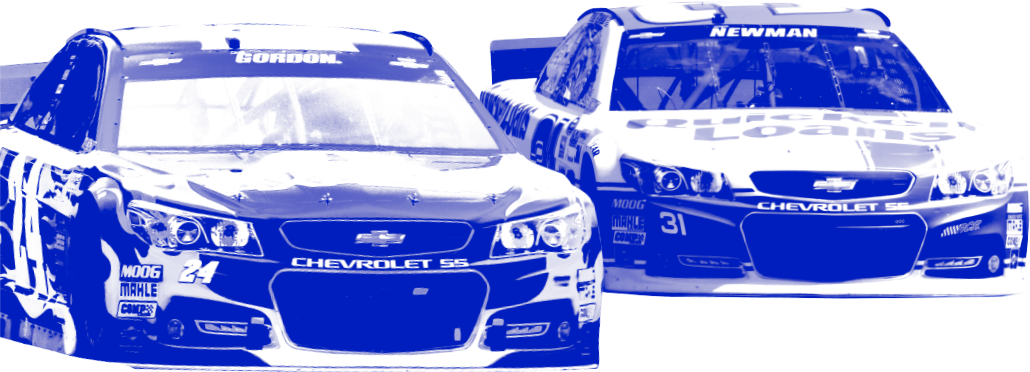
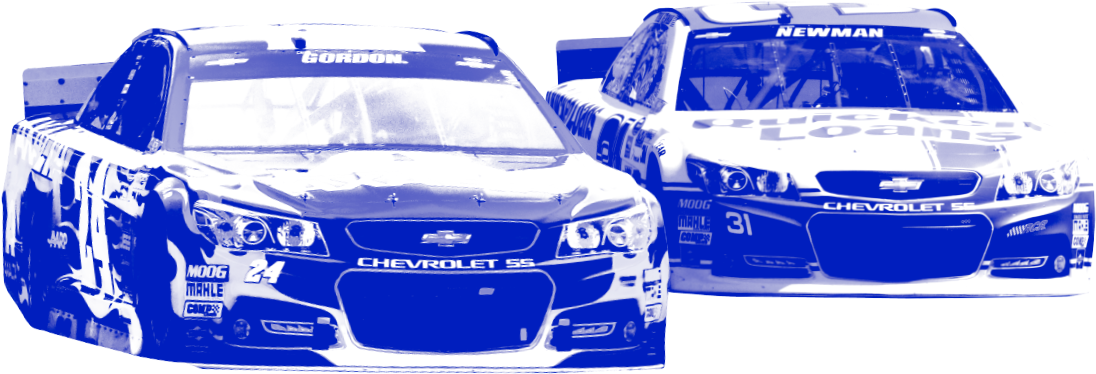
fluid to the max

diff --git a/src/scss/main.scss b/src/scss/main.scss
@@ -177,7 +177,8 @@ ul {
     &#header-module {
         min-height: 206px;
         padding-top: 20px;
-        max-width: 1068px;
+        position: relative;
+        overflow: hidden;
 
         > div {
             max-width: 1020px;
@@ -234,7 +235,7 @@ ul {
         overflow: hidden;
 
         > div {
-            padding-bottom: 240px;
+            padding-bottom: 290px;
 
             .heroes {
                 position: absolute;
@@ -274,10 +275,9 @@ ul {
 
     /* FOLLOW THESE STEPS */
     &#support-module {
-        max-width: 1068px;
-        background-position: center -66px;
-        padding-top: 139px;
-        margin-top: -139px;
+        background-position: center 0;
+        padding-top: 205px;
+        margin-top: -240px;
         padding-left: 0;
         padding-right: 0;
         position: relative;
@@ -346,9 +346,9 @@ ul {
 
     &#social-counter-moudle {
         padding: 150px 0 0 0;
-        background-size: 80%;
+        background-size: 1096px 374px;
         background-repeat: no-repeat;
-        background-position: 0 bottom;
+        background-position: 10% bottom;
         background-image: url("./images/2cars.png");
 
         h2 {
@@ -517,7 +517,6 @@ ul {
     }
 
     &#footer-module {
-        max-width: 1068px;
         background-position: center -66px;
         padding-top: 140px;
         margin-top: -136px;
@@ -539,6 +538,7 @@ ul {
             float: left;
             color: #fff;
             width: 100%;
+            padding-bottom: 70px;
 
             > * {
                 position: relative;
@@ -575,7 +575,6 @@ ul {
 
     &#hero-module,
     &#buy-module,
-    &#support-module,
     &#top-submissions-module,
     &#more-submissions-module,
     &#trending-module > div,
